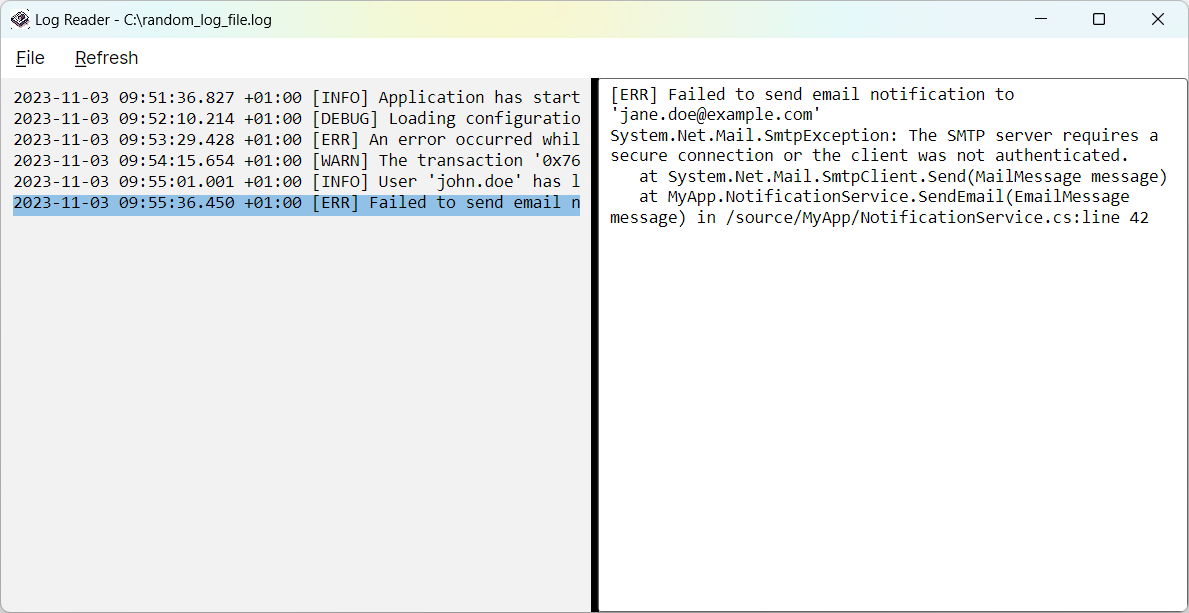
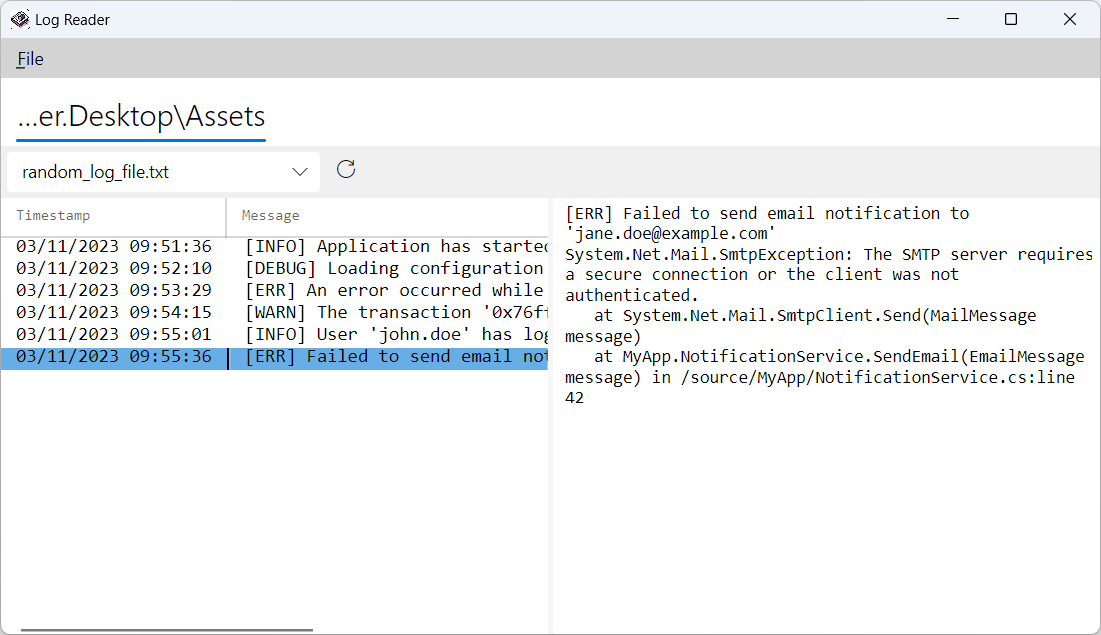
Updated verions to 1.1

Changed region(s): [[0.0, 0.0, 1.0, 1.0], [0.0, 0.9918, 0.2779, 1.0]]

diff --git a/README.md b/README.md
@@ -1,53 +1,50 @@
 # Log Reader
 
-A simple desktop application designed for reading and analyzing log files. Built with AvaloniaUI, it's cross-platform and efficient in handling large log files with ease.
+Log Reader is a powerful desktop application tailored for developers and system administrators grappling with complex, multiline log files. It transforms the tedious task of sifting through extensive logs into a streamlined and manageable process. Leveraging the cross-platform capabilities of AvaloniaUI, Log Reader offers a seamless and responsive experience on Windows, Linux, and macOS, ensuring you can focus on the content that matters, no matter where you are working from.
 
 ## 🌟 Features
 
-- **Split View**: Separates log entries and details into two panels for easy browsing.
-- **Virtualization**: Efficiently handles large datasets with list virtualization.
-- **Multiline Log Support**: Parses and displays multiline log entries.
-- **Hardcoded Parsing Format**: Currently, the log parsing format is hardcoded but flexible for future customization.
-- **Performance**: Optimized for fast reading and low memory consumption even with large log files.
+- **Tabbed Interface**: Work with multiple log files simultaneously through a tabbed document interface.
+- **Split View & Multiline Log Analysis**: Our split view interface is specifically engineered for complex, multiline log files. It features a concise list of log entries on the left to facilitate quick browsing, alongside an expanded detail view on the right that clearly delineates each log entry for thorough analysis. This dual-pane approach simplifies the examination of extensive logs, where identifying the start and end of each entry in a standard text editor can be cumbersome.
+- **Real-Time Monitoring**: Stay on top of live updates with automatic refreshes that capture and display log changes as they happen.
+- **Performance Optimized**: Built to handle large files with minimal resource consumption, allowing for rapid loading and smooth scrolling, even with substantial log data.
+- **Hardcoded Parsing Format**: Comes with a predefined log parsing format, primed for future enhancements and customization.
 
-## 🚀 Future Plans
+## 🚀 Planned Features
 
-- **Syntax Highlighting**: Enhances readability by visually distinguishing log components.
-- **Multiple File Support**: Open, read, and analyze multiple log files simultaneously.
-- **File Change Tracking**: Detects and displays real-time log file modifications.
-- **Regex Support**: Custom parsing of log files.
-- **Filtering Options**: Easily locate specific log entries or patterns.
-- **Custom Parsers/Highlighters**: Allows users to add their own parsers to suit their log format.
+- **Syntax Highlighting**: Improve readability with color coding based on log severity or content.
+- **Customizable Parsing**: Regex support for user-defined log parsing rules.
+- **Advanced Filtering**: Tools to sift through logs based on criteria such as timestamps, severity, or custom patterns.
+- **Extensibility**: Ability for users to contribute custom parsers and highlighters to match specific log formats.
 
 ## 🔧 Getting Started
 
 ### Prerequisites
 
 - [.NET 7.0 Runtime](https://dotnet.microsoft.com/en-us/download/dotnet/7.0) installed
-- Compatible with Windows, Linux, and macOS (mainly tested on Windows)
+- Compatible with major operating systems, although primarily tested on Windows.
 
 ### Installation
 
-[Download the latest release](https://github.com/Sumrix/LogReader/releases/latest) for your operating system and run the executable.
+Download the latest release from the [releases page](https://github.com/Sumrix/LogReader/releases/latest) and execute the program on your machine.
 
 ## 📖 Usage
 
-This application is intended for anyone who needs to open and read log files. While developed with personal logs in mind, it can be adapted to different log formats as needed.
+Log Reader is for anyone who works with log files, from developers to system administrators. Initially tailored for personal use, it's adaptable for various logging formats, making it a versatile tool for log analysis.
 
 ## 🤝 Contributing
 
-Contributions are welcome! If you have a feature request, bug report, or wish to improve the application, please open an issue or submit a pull request.
+Your contributions make the open-source community a fantastic place to learn, inspire, and create. Any contributions you make are **greatly appreciated**. If you have suggestions for improving Log Reader, please fork the repo and create a pull request or simply open an issue with the tag "enhancement".
 
 ## 📜 License
 
-This project is licensed under the MIT License - see the [LICENSE](LICENSE.txt) file for details.
+Distributed under the MIT License. See the [LICENSE](LICENSE.txt) file for more information.
 
-## 🛠 Development Status
+## 🛠 Build Status
 
-![Build and Upload Release](https://github.com/Sumrix/LogReader/actions/workflows/release.yml/badge.svg)
+![Build and Upload Release](https://github.com/Sumrix/LogReader/actions/workflows/release-app.yml/badge.svg)
 
 ## 🖼 Screenshots
 
-![Log Reader Screenshot](screenshot.png)
-
-_The application's UI showcasing the split view and multiline log support._
+![Log Reader Main Interface](screenshot.png)
+_Main interface with tabbed document view._
